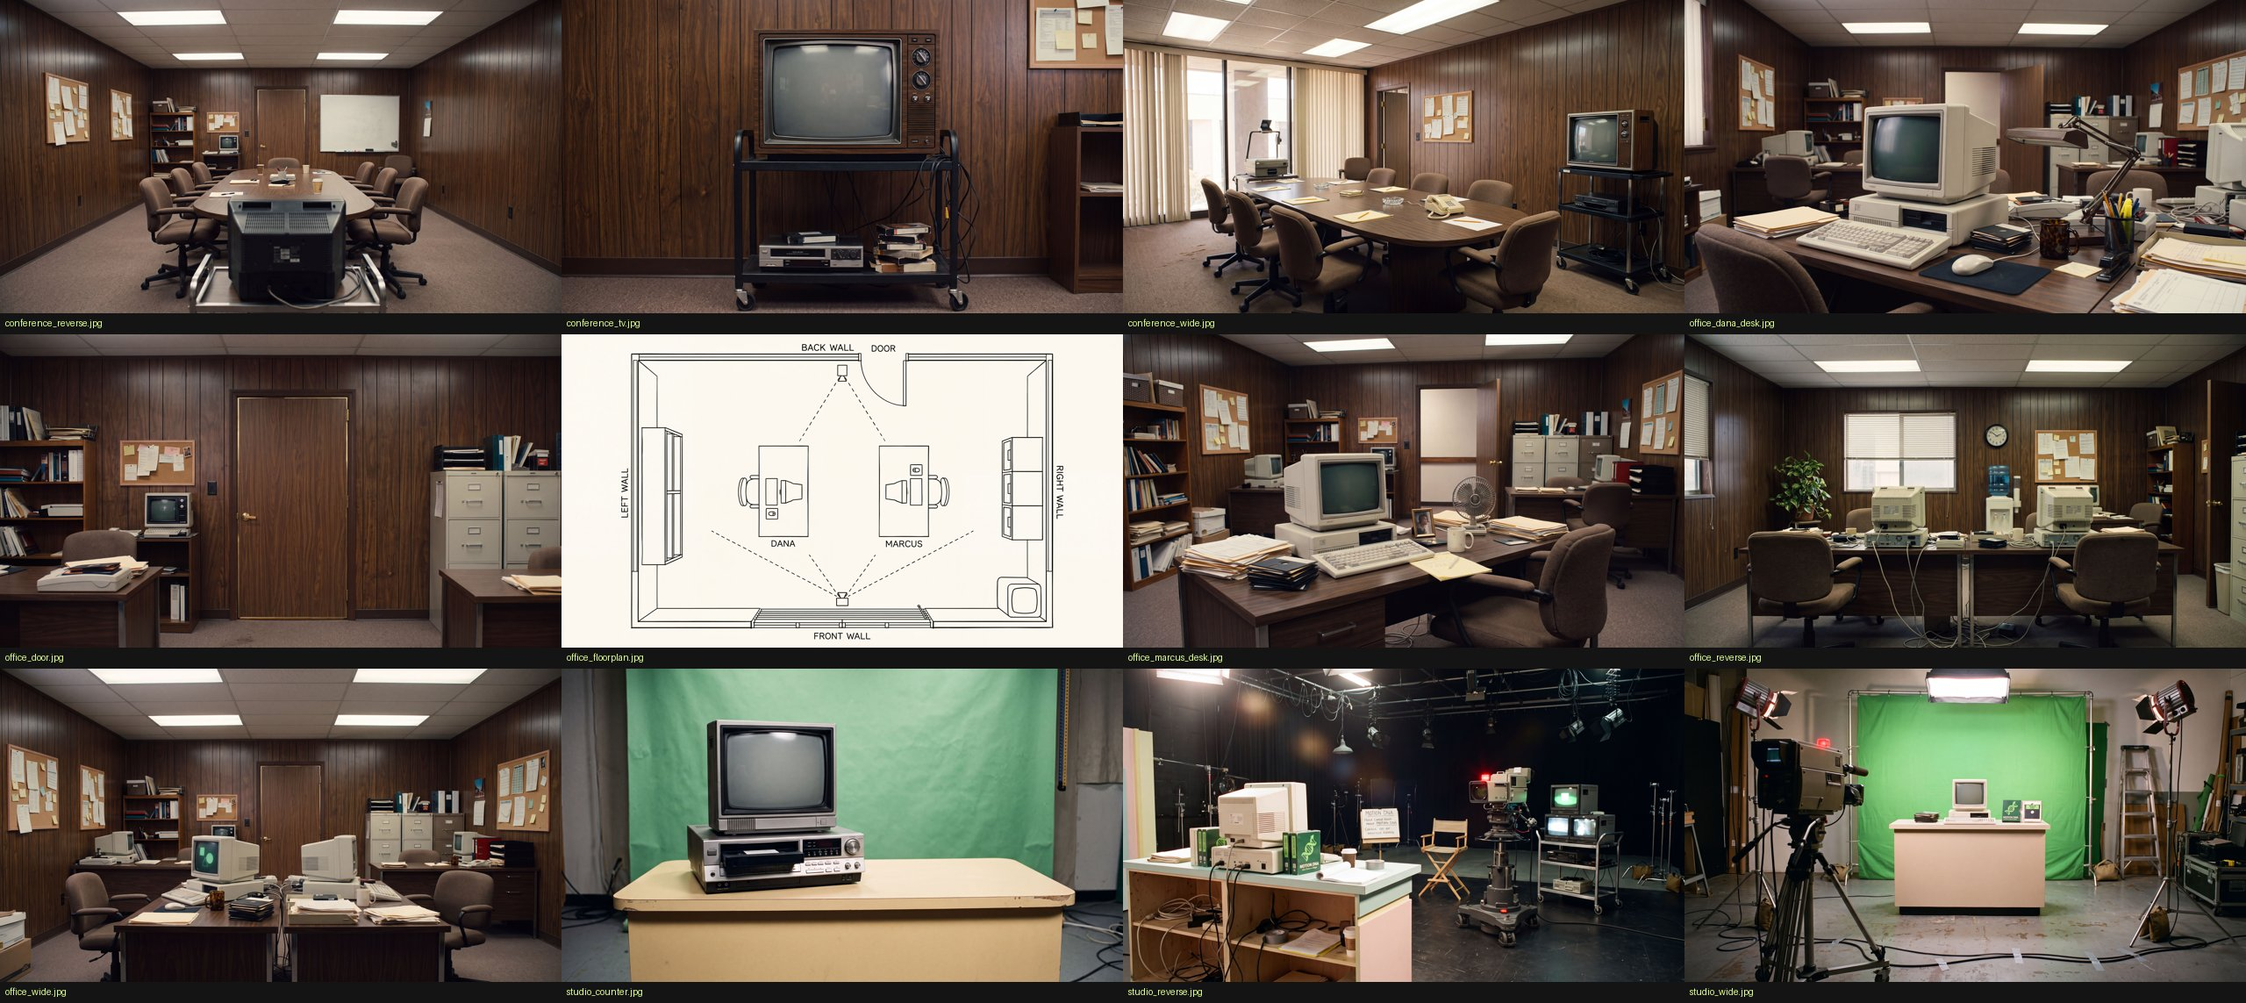
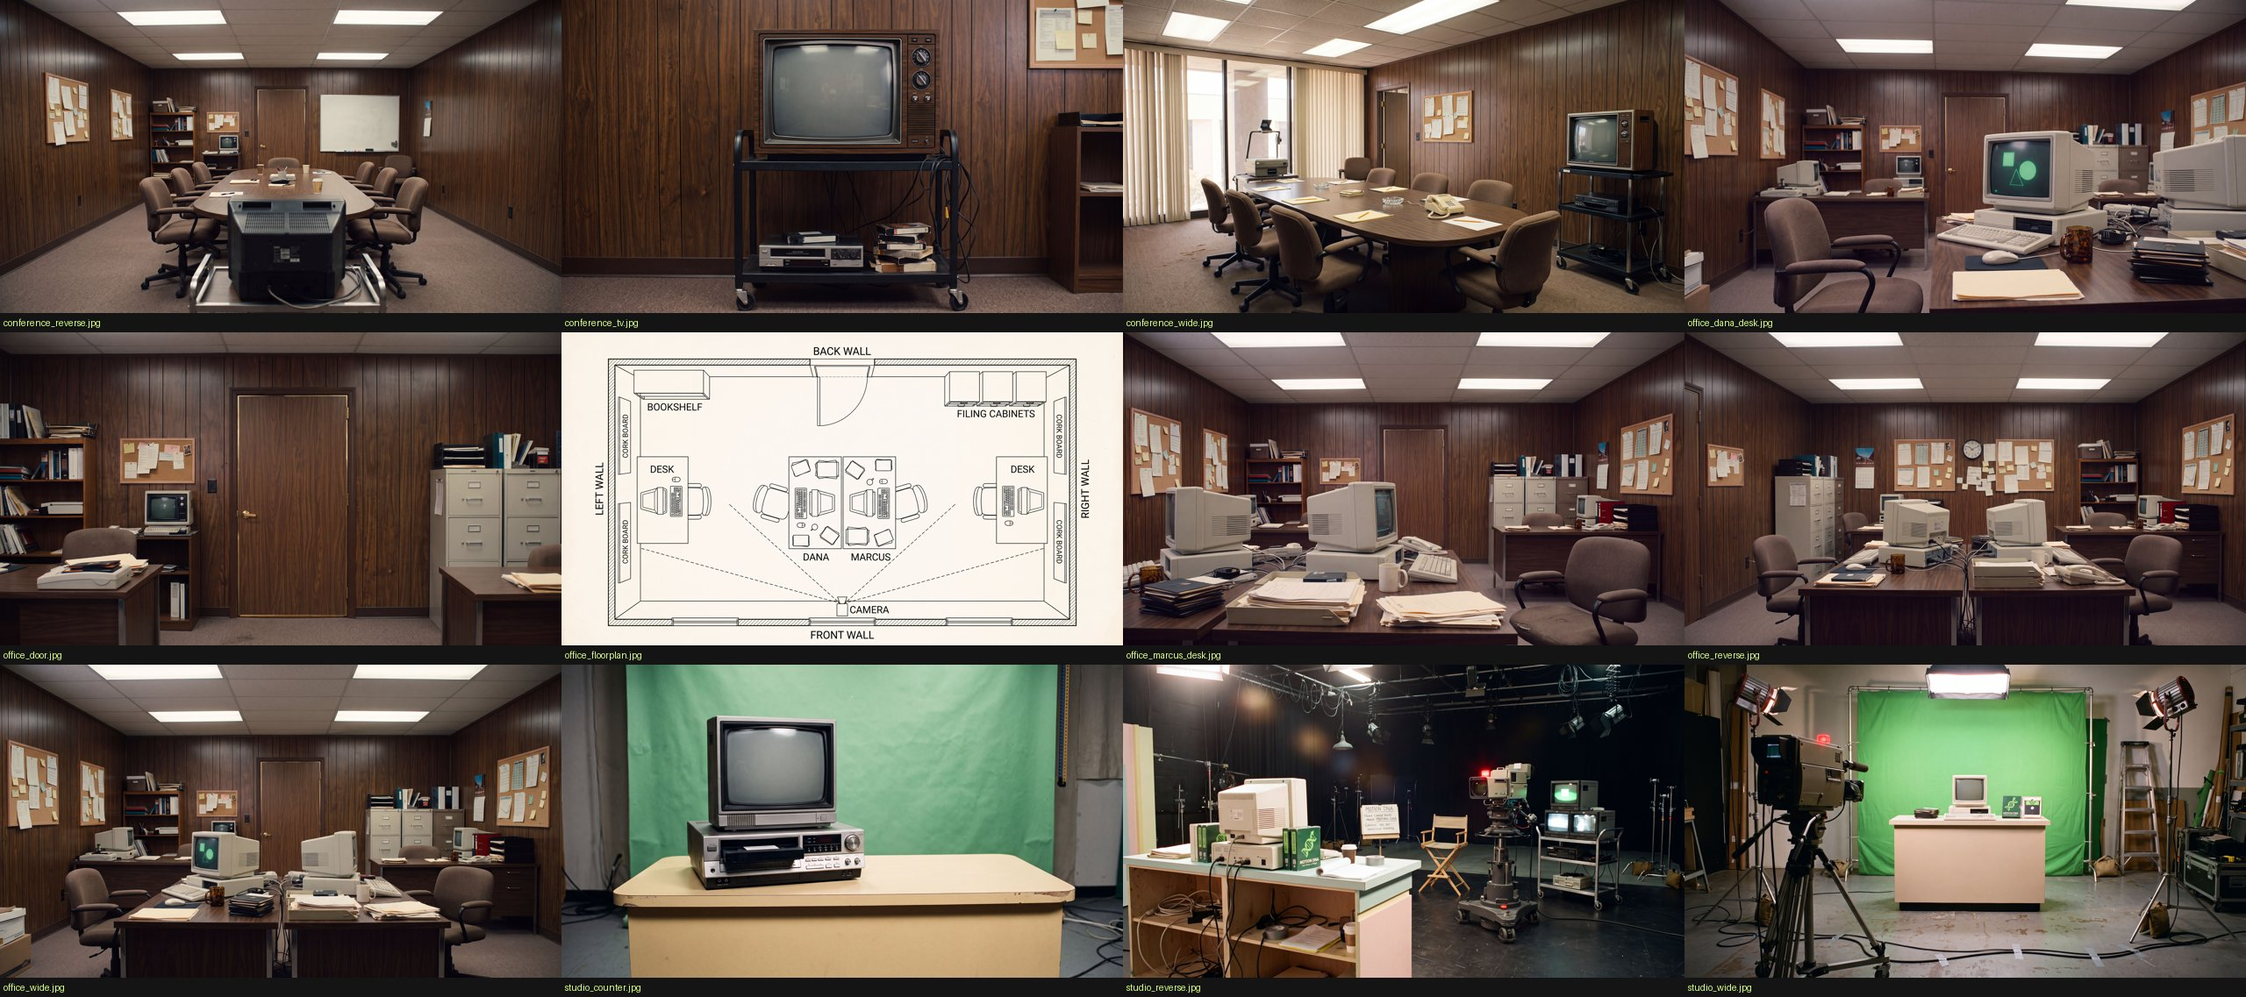
Use cases for every technique and style, and a coherent office set
- UC12-UC20 with renders: tracked labels + HUD, speed ramp, all 9 styles on
  one layout, text behind a person in video with contour and roto breakdown,
  freeze frame + kinetic type, shape wipe, marker timing, cut on the voice,
  and a brand that learns from two review notes (v1 -> v2 -> v3).
- README 'Tested on real work' and the user guide gain the new cases, a
  Techniques section and tips; LEARNINGS records what broke and why.
- Locations: the reverse angle, both desk close-ups and the floor plan were
  regenerated from office_wide as the reference image so the set agrees
  (USD 0.632); runs.json and the contact sheet updated.

diff --git a/docs/use-cases/README.md b/docs/use-cases/README.md
@@ -1,6 +1,6 @@
 # Use cases: every tool, tested on real-looking work
 
-We ran each Motion DNA tool on a small, realistic piece from five industries, with fictional brands and generated
+We ran each Motion DNA tool, technique and style on a small, realistic piece from five industries, with fictional brands and generated
 assets. The aim was to find what breaks or confuses a designer. Every finding below was fixed and re-tested. The
 [User guide](../USER_GUIDE.md) turns these results into instructions and tips.
 
@@ -23,6 +23,15 @@ Brands: Maison Nord (fashion), Oku Optics (eyewear), Lumé (beauty), Orto (kitch
 | UC09 | Cars | Agent: Figma frame → After Effects | OK | F12, F13, F14 |
 | UC10 | All | Projects and conversations | OK | — |
 | UC11 | All | MCP directly + layout QA | OK | QA false positives fixed |
+| UC12 | Cars | Technique: tracked labels + HUD | OK | F18, F19 |
+| UC13 | Cars | Technique: speed ramp | OK | — |
+| UC14 | Eyewear | The 9 styles on one layout | OK | F21, F22 |
+| UC15 | Fashion | Techniques: text behind (video), contour, roto breakdown | OK | F23 |
+| UC16 | Fashion | Technique: freeze frame + kinetic type | OK | — |
+| UC17 | Kitchen | Technique: shape wipe | OK | F20 |
+| UC18 | Beauty | Technique: marker timing | OK | — |
+| UC19 | Cars | Technique: cut on the voice | OK | — |
+| UC20 | Eyewear | A brand that learns: v1 → v2 → v3 | OK | F24 |
 | — | Panel | Reviews by Aaron and Gian | — | F15, F16, F17 |
 
 Agent costs are Claude Code's own estimates. With a subscription they are not billed per order.
@@ -164,6 +173,138 @@ every key of those layers.
     catch: use a darker tone or a shadow.
 
 ![UC11](img/uc11.jpg)
+
+## UC12 · Cars · Tracked labels and HUD
+**Brief:** a design-details shot of the Vela One: a slow handheld move on the wheel and the light bar, with callouts
+that stick to them. The plate is a camera move made from a 4K still, at no generation cost.
+**Steps:** `tools/track_points.py` on three regions (wheel, light bar, air intake), with confidence 0.93–1.0. Then a
+scene spec for `tools/build_scene.jsx`: two callouts, a chip, a bracket and a kicker.
+
+![UC12](img/uc12.jpg)
+
+- **Worked:** the labels follow the camera for the whole move.
+- **F18:** the wheel callout pointed outward, and the camera move pushed it out of frame.
+  **Fix:** callouts on a moving shot point *inward* (rule 15 in CONTRIBUTING §9).
+- **F19:** the HUD defaults were 18–26 px, below our own 32 px rule, and light text sat on white paint.
+  `check_layout` caught both.
+  **Fix:** the HUD defaults are now 32 px, and callouts use `"card": true` on light plates.
+
+## UC13 · Cars · Speed ramp
+**Brief:** the road shot rushes in, then lands in slow motion for the claim.
+**Steps:** Behaviors › Moves › Speed Ramp on the footage layer, or MCP `apply_preset`.
+
+![UC13](img/uc13.jpg)
+
+- **Worked:** time remap from 0 to 1.46 s of footage in the first second, 5.48 s by 2 s, then about 0.13× to the end.
+- **Tip:** the ramp spends most of the clip in its first two seconds. Give it a plate at least 2.5 times longer than
+  the rushed part.
+
+## UC14 · Eyewear · The 9 styles on one real layout
+**Brief:** the Oku Optics web hero (brand, eyebrow, a two-line serif title, price and a button), once per style.
+**Steps:** Agent › Library › Styles, or MCP `apply_pack`, on nine copies.
+
+![UC14](img/uc14.jpg)
+*At 0.4 s each style moves differently: whips, blurs, decoding text, a jack-in-the-box. By 3.5 s all nine land on the
+same layout.*
+
+- **F22:** the button's label was animated apart from its pill.
+  **Fix:** a style now skips layers that have a parent. Parent the label to its button and it rides with it. The label
+  also fades with the button: After Effects does not pass opacity from parent to child, so an expression links it.
+- **F21:** Playful left the button rocking. That is its Swing loop, not a bug.
+  **Tip:** on a call to action, remove the loop or pick a calmer style.
+
+## UC15 · Fashion · Text behind a person in video, contour, roto breakdown
+**Brief:** "COAT" behind the model while the camera moves, a contour drawn around her, and a 2×2 breakdown of how the
+shot was made.
+**Steps:**
+1. MCP `matte` (video → ProRes 4444 with alpha, local GPU).
+2. `tools/matte_contours.py`.
+3. A scene spec with `matte`, a `behind` text and a `contour`.
+4. `tools/build_breakdown.jsx`.
+
+![UC15](img/uc15.jpg)
+
+- **Worked:** she stays in front of the word for the whole move, with 0 layout warnings.
+- **F23:** `build_scene.jsx` failed on a scene with no tracking file, although its header says `fps` is enough.
+  **Fix:** without a tracking file, the plate gives the size and frame rate.
+- **Design fixes:**
+  - The kicker ran into her legs, so it is now two lines (rule 15).
+  - A light contour vanished on the cream wall, so it is now ink.
+  - COAT is dark brown this time, not UC08's tan.
+
+## UC16 · Fashion · Freeze frame and kinetic type
+**Brief:** the shot freezes, the background drains to pine while the model stays in colour, and a title lands.
+**Steps:** an edit spec for `tools/build_edit.jsx` with a `freeze` (`mono`, the matte and the plate) and a `split`
+title.
+
+![UC16](img/uc16.jpg)
+
+- **Worked:** freeze, colour drain, kinetic title, and back to motion.
+- **Design fixes:** it took three passes, each caught by eye or by `check_layout`:
+  1. The default centred title sat on her body.
+  2. Split around her ("Made to" in the italic serif, "last." large), it crossed the frozen COAT.
+  3. Moved down into the empty space, the subtitle left the frame, so it now breaks into two lines.
+
+## UC17 · Kitchen · Shape wipe
+**Brief:** a sage wipe carries the kitchen scene into the product shot.
+**Steps:** a full-frame solid with Color Wipe in and out around the cut, then the new scene's title.
+
+![UC17](img/uc17.jpg)
+
+- **Worked:** the diagonal sweep covers the cut and reveals the mixer.
+- **F20:** the one-line title ran into the mixer. `check_layout` cannot see products, only faces.
+  **Fix:** a new rule (rule 15 in CONTRIBUTING §9): break the title and play with sizes ("Bakes like" at 64 px over
+  "a pro." at 132 px).
+
+## UC18 · Beauty · Marker timing
+**Brief:** the client wants the headline to land a second later.
+**Steps:** apply with *Marker timing*, then drag the `SS in` marker 1 s later. No keyframe is touched.
+
+![UC18](img/uc18.jpg)
+
+- **Worked:** at 0.7 s the retimed headline has not started yet; at 1.7 s it has landed.
+
+## UC19 · Cars · Cut on the voice
+**Brief:** four shots for a four-line voiceover, each cut where its phrase starts.
+**Steps:** a free local voice (Windows speech), `tools/vo_words.py` (Whisper) for the word times, and cuts two frames
+before each phrase.
+
+![UC19](img/uc19.jpg)
+
+- **Worked:** cuts at 0, 2.18, 5.40 and 9.30 s.
+- **Tip:** Whisper heard "Vila" for Vela. Check brand names in the transcript before you cut on them.
+- **Found and fixed in `check_layout`:** it counted any drop shadow as help, even a faint one. Now only a shadow of
+  60 % opacity or more counts.
+- **What it then caught, now fixed:** white text on the white studio, text touching the car, and a card over the
+  wheel. Each shot now places its text in its own empty area, in the ink that reads there.
+
+## UC20 · Eyewear · A brand that learns
+**Brief:** start Oku Optics with the wrong guess (Dynamic), then give two review notes and watch the brand adapt.
+
+![UC20](img/uc20.jpg)
+
+1. **v1:** `apply_brand oku` with no rules. It feels like a sneaker drop: whips and a spinning button.
+2. **Note 1 → rule 1 (motion):** "Eyewear moves calm and premium: soft rises, word-by-word text, no slams, spins or
+   whips." The feel becomes Calm Modern on Coast. **v2:** soft rises and words fading up.
+3. **Note 2 → rule 2 (motion):** "The glasses glide in from the right and settle in 900 ms on Oku Glide: never pop,
+   never bounce." The brand gets its own curve (Oku Glide) and a timing entry. **v3:** `apply_brand` retimes the glasses
+   and the title on Oku Glide by itself. Following the rule, the agent swaps the rise for Glide In, mirrored so it
+   comes from the right.
+
+The brand file now holds both rules, the curve and the timing, so the next piece for Oku starts from v3.
+- **F24:** `brand.py show` printed a single preferred preset letter by letter.
+  **Fix:** a single name is accepted.
+
+## Locations for the video: one set, not twelve
+The office views for the video were generated separately and did not agree with each other. Some had a window, a plant
+and a water cooler that the wide shot does not have; one had a white open door; another had the desks side by side.
+
+**Fix:** we took `office_wide` as the reference image and regenerated four views from it: the reverse angle, both desk
+close-ups and the floor plan (Nano Banana 2.1 image-to-image, 2 variants each, USD 0.632). For each view we kept the
+more coherent variant: same walnut walls, same closed door in the middle of the back wall, same furniture.
+
+**The rule for any set:** pick one master frame and build every other angle from it, as a reference. Never generate
+angles independently.
 
 ## Panel reviews
 - **F15:** a style without its preview showed a broken image.

diff --git a/docs/USER_GUIDE.md b/docs/USER_GUIDE.md
@@ -13,6 +13,7 @@ beauty, kitchen and cars.
 [Curves](#curves-change-the-feel) ·
 [Brands](#brands-a-style-that-learns) ·
 [Agent](#agent-ask-claude) ·
+[Techniques](#techniques-workflows-beyond-one-preset) ·
 [Projects](#projects-one-folder-and-one-conversation-per-piece) ·
 [For Claude](#for-claude) ·
 [Tips by industry](#tips-by-industry) ·
@@ -72,6 +73,9 @@ The four tabs at the bottom:
 >   letters (UC01).
 > - **Marker timing:** with it on, the layer gets *SS in / SS out* markers. Drag them to retime without touching keys.
 > - **Loops** (Float, Pulse…) add on top of any move. Put them on the product, not on the text.
+> - **Text never touches the product or the person.** If a title would, break it into two lines and play with sizes
+>   (a small lead line over a big key line) instead of shrinking it or letting it overlap (CONTRIBUTING §9, rule 15).
+> - **Parent a button's label to the button.** Styles then move and fade them together.
 
 ## Curves: change the feel
 1. Select keyframes, or select layers to change every key on them.
@@ -119,6 +123,10 @@ each layer named in the brand's timing, on the brand's own curve.
 >   Overshoot rules still need a look at a frame.
 > - **Client brands never go in the repo.** Only templates live in `library/brands/`.
 
+**Watch a brand learn** (UC20): Oku Optics started on the wrong style. Note 1 (“calm and premium, no slams”) became a
+rule and moved it to Calm Modern on Coast; note 2 (“the glasses glide in from the right, 900 ms, never pop”) became a
+rule plus a curve and a timing entry, which `apply_brand` now applies by itself. The next piece starts from there.
+
 ## Agent: ask Claude
 - **Safe** mode uses only the Motion DNA tools: apply, layers and frames.
 - **Full** mode adds Figma, files and scripts. It never commits or pushes.
@@ -160,6 +168,20 @@ the tests:
 >   anything.
 > - **The `>_` button** copies the command that continues the same conversation in a terminal. *Open in Claude app*
 >   continues it in the Claude app.
+
+## Techniques: workflows beyond one preset
+Each one was tested end to end (use cases UC12–UC19). The Agent knows the tool for each; by hand:
+
+| Technique | How | Tip |
+|---|---|---|
+| **Tracked labels + HUD** | `python tools/track_points.py clip.mp4 tracks.json --regions regions.json`, then a scene spec for `tools/build_scene.jsx` (callout, chip, bracket, kicker) | Point callouts inward so the camera move cannot push them out; `"card": true` on light plates |
+| **Speed ramp** | Behaviors › Moves › Speed Ramp on a footage layer | The ramp eats about 2.5× its length of footage: use a long enough plate |
+| **Text behind a person or product** | MCP `text_behind` (still or video), or `matte` + a `behind` item in a scene spec | Pick a tone that contrasts with the wall, not the brand colour by default |
+| **Roto breakdown** | `matte` → `tools/matte_contours.py` → `tools/build_breakdown.jsx` | Contours in ink on light plates, in spark on dark ones |
+| **Freeze frame + kinetic type** | an edit spec for `tools/build_edit.jsx` with `freeze` (`mono`, matte, plate) and a `split` title | Split the title around the person, in the empty space; break the subtitle into lines |
+| **Shape wipe** | a full-frame solid with Color Wipe in and out around the cut | Start the next scene under the wipe, a few frames before it opens |
+| **Marker timing** | apply with *Marker timing*, then drag `SS in` / `SS out` | The fastest way to answer “land it a second later” |
+| **Cut on the voice** | `python tools/vo_words.py vo.mp3 words.json`, cuts two frames before each phrase | Whisper can mishear brand names: check them before you cut on them |
 
 ## Projects: one folder and one conversation per piece
 Agent › Project › **New project**:
@@ -215,6 +237,7 @@ Recipes that worked in the tests:
 | **Eyewear** | Modify on the client's product move; Scale Pop for a single hero; a short Float loop on the frame. | Thin type over a light grey: keep it 32 px or more. |
 | **Beauty** | Serif headline with Blur Words or Chars Rise; claim and price later, softer; Calm Modern or Elegant. | Text over texture: put it where the texture is calm, or on a card. |
 | **Kitchen** | Whip Pan out of the lifestyle shot, Push Through into the product, Float on the product. | Use **Transition** with both layers selected, so the cut is one move. |
+| **Sets (any)** | Build every angle of a set from one master frame as the reference image | Generated independently, the views disagree (windows, doors, furniture) |
 | **Cars** | A full studio or road photo, a slow push-in, a spec card on empty space; S curve or the brand's glide. | Don't paste a cut-out car on a road photo: it floats. No overshoot on premium brands. |
 
 ## Troubleshooting

diff --git a/README.md b/README.md
@@ -143,7 +143,7 @@ LLM reads `library/INDEX.txt` and runs `.jsx` jobs with `bash tools/bridge.sh`.
 
 ## Tested on real work
 
-Every tool was run on a small, realistic piece from five industries, with fictional brands. Each case says which part of
+Every tool, technique and style was run on a small, realistic piece from five industries, with fictional brands. Each case says which part of
 Motion DNA it tests, shows the result, and leaves a tip. What broke and how it was fixed:
 [docs/use-cases](docs/use-cases/README.md). The manual built from it: [docs/USER_GUIDE.md](docs/USER_GUIDE.md).
 
@@ -161,6 +161,15 @@ Motion DNA it tests, shows the result, and leaves a tip. What broke and how it w
 | **UC09** · Cars | Agent (Full): Figma → After Effects, brand timing | <img src="docs/use-cases/img/uc09.jpg" width="360" alt="UC09"> | Put numbers in the brand's timing: `apply_brand` follows them. |
 | **UC10** · All | Agent › Project | <img src="docs/use-cases/img/uc10.jpg" width="360" alt="UC10"> | Keep the `.aep` in the project's `05_ae`. |
 | **UC11** · All | Claude Code (MCP) + layout QA | <img src="docs/use-cases/img/uc11.jpg" width="360" alt="UC11"> | Before calling it done: `render_frame`, then `check_layout`. |
+| **UC12** · Cars | Technique: tracked labels + HUD | <img src="docs/use-cases/img/uc12.jpg" width="360" alt="UC12"> | On a moving shot, point callouts inward and give them a card on light plates. |
+| **UC13** · Cars | Technique: speed ramp | <img src="docs/use-cases/img/uc13.jpg" width="360" alt="UC13"> | Give the ramp a plate 2.5× longer than the rushed part. |
+| **UC14** · Eyewear | All 9 styles on one layout | <img src="docs/use-cases/img/uc14.jpg" width="360" alt="UC14"> | Parent a button's label to the button: styles move them together. |
+| **UC15** · Fashion | Techniques: text behind (video), contour, roto breakdown | <img src="docs/use-cases/img/uc15.jpg" width="360" alt="UC15"> | `matte` the plate, then `behind` + `contour` in one scene spec. |
+| **UC16** · Fashion | Technique: freeze frame + kinetic type | <img src="docs/use-cases/img/uc16.jpg" width="360" alt="UC16"> | Split the title around the person, in the empty space. |
+| **UC17** · Kitchen | Technique: shape wipe | <img src="docs/use-cases/img/uc17.jpg" width="360" alt="UC17"> | A title that would touch the product breaks into two lines and two sizes. |
+| **UC18** · Beauty | Technique: marker timing | <img src="docs/use-cases/img/uc18.jpg" width="360" alt="UC18"> | Drag `SS in` to retime without touching a key. |
+| **UC19** · Cars | Technique: cut on the voice | <img src="docs/use-cases/img/uc19.jpg" width="360" alt="UC19"> | Cut two frames before each phrase; check brand names in the transcript. |
+| **UC20** · Eyewear | Brands: a style that learns (v1 → v3) | <img src="docs/use-cases/img/uc20.jpg" width="360" alt="UC20"> | Each review note becomes a rule; numbers go in the brand's timing. |
 
 ## The library
 

diff --git a/docs/LEARNINGS.md b/docs/LEARNINGS.md
@@ -160,6 +160,23 @@ Everything we learned building Motion DNA and *The 1974 Boardroom* test, written
 - **Transitions animated each layer on its own** (UC04) → no notion of an outgoing and an incoming layer →
   `SSP.applyTransition` / MCP `apply_transition` / the panel's Transition button with two layers selected: the first
   leaves as the second arrives, from the same cut, keys added to what they already have.
+- **HUD labels came out at 18–26 px and white on white** (UC12) → the SSHUD defaults predated the 32 px rule → defaults
+  are 32 px; use `"card": true` on light plates. **Callouts drifted out of frame on a moving shot** → they pointed
+  outward → point them inward.
+- **A style animated a button's label apart from its pill** (UC14) → every text layer got its own role → layers with a
+  parent ride it (a style skips them) and fade with it through an opacity expression (opacity is not inherited).
+- **`build_scene.jsx` failed with “) does not have a value”** on a scene without tracks → `SSM.readJSON` of a missing file
+  evals "()" → no tracks file: the plate gives size and rate.
+- **`check_layout` judged text mid-animation and missed parents** (UC11–UC19) → it measured at the first visible frame
+  and ignored the parent's transform; a faint shadow counted as help → it waits for the text to settle (its last key
+  before the exit, its parent's too), maps parented boxes, counts a shape card under the text as its plate, and only a
+  60 %+ shadow as help. It still cannot see products: rule 15 in CONTRIBUTING §9 covers that by eye.
+- **A random flicker failed the engine test now and then** → 4 % per frame with a seed that depends on the layer index
+  can miss every sampled frame → a random/wiggle expression counts as motion.
+- **The engine in After Effects was an older copy** → `$.global.SSP` is loaded once per session → a job that needs the
+  latest engine runs `$.evalFile(tools/ss_presets.jsx)` first.
+- **The office views for the video disagreed** (windows, doors, desks) → each angle was generated on its own → build
+  every angle from one master frame as the reference image (UC locations, USD 0.632 for 8 variants).
 - **Remote debugging lands on another extension** → several `.debug` files used the same port → give ours its own.
 
 ## 2. Animation Composer as a behavioral reference
@@ -263,6 +280,7 @@ Everything we learned building Motion DNA and *The 1974 Boardroom* test, written
 ## 8. Costs observed (Flora, USD)
 | Item | Cost |
 |---|---|
+| Office views regenerated from office_wide (Nano Banana 2.1 image-to-image, 4K, 8 variants) | 0.632 |
 | Nano Banana Pro still (2K) | 0.18 |
 | Kling 3.0 Pro, 5 s 1080p | 0.706 |
 | VEED background removal (5 s) | 0.135 |
